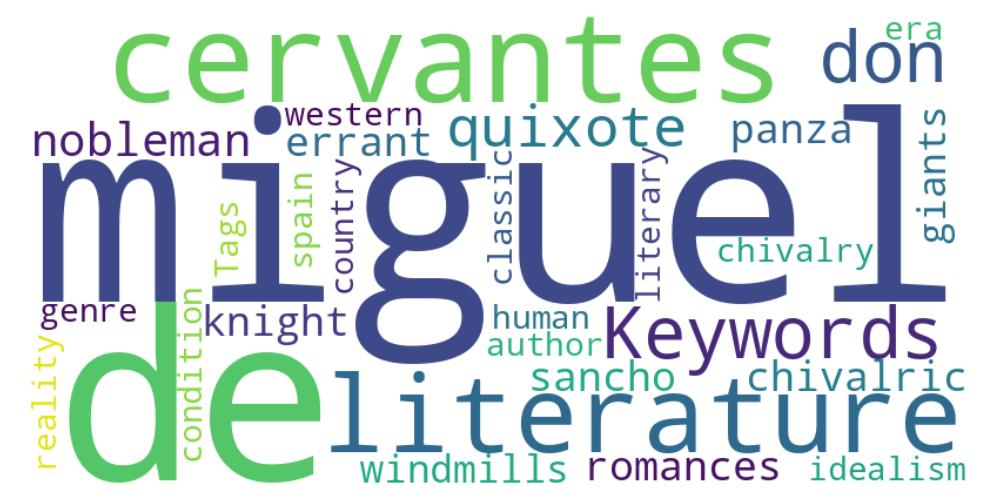
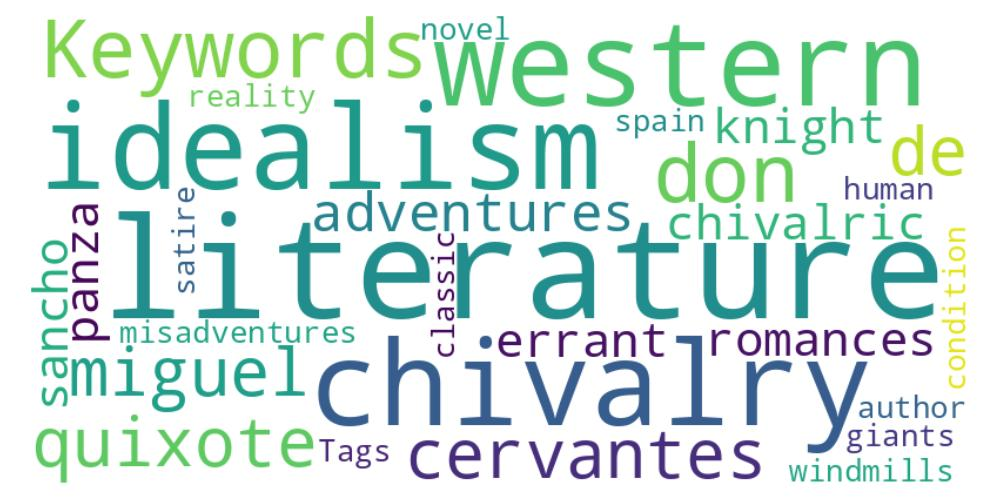
chore: commit save point

diff --git a/main.py b/main.py
@@ -190,37 +190,45 @@ def main():
 
     # Llamamos a la función para extraer palabras clave
     extracted_keywords = extract_keywords(input_text)
-    print("\nExtracted Keywords and Tags:")
-    print(extracted_keywords)  # Imprimimos los keywords y tags extraídos
+    print("\n🔑 **Extracted Keywords and Tags:**")
+    print("\n📌 **Keywords:**")
+    for keyword in extracted_keywords.split("keywords:")[-1].strip().split("\n- "):
+        if keyword:
+            print(f"   - {keyword}")
 
     # Extraemos los tags de los keywords
     tags = parse_tags_from_keywords(extracted_keywords)
+    print("\n🏷 **Tags:**")
+    for key, value in tags.items():
+        print(f"   - {key}: {value}")
 
     # Llamamos a la función para obtener libros relacionados
     related_books = extract_related_books(input_text)
-    print("\nRelated Books:")
-    print(related_books)  # Imprimimos los libros relacionados
+    print("\n📚 **Related Books:**")
+    for book in related_books.split("\n"):
+        if book:
+            print(f"   - {book}")
 
     # Generamos la nube de palabras
     output_path_cloud = "img/tag_cloud.jpg"
     os.makedirs(os.path.dirname(output_path_cloud), exist_ok=True)
     generate_tag_cloud(extracted_keywords, output_path_cloud)
-    print(f"\nTag cloud saved to {output_path_cloud}")
+    print(f"\n🌥 **Tag cloud saved to:** {output_path_cloud}")
 
     # Generamos la gráfica de barras
     output_path_bar = "img/keyword_bar_chart.jpg"
     generate_bar_chart(extracted_keywords, output_path_bar)
-    print(f"\nBar chart saved to {output_path_bar}")
+    print(f"\n📊 **Bar chart saved to:** {output_path_bar}")
 
     # Generamos la gráfica de pastel con los tags extraídos
     output_path_pie = "img/tag_pie_chart.jpg"
     generate_pie_chart(tags, output_path_pie)
-    print(f"\nPie chart saved to {output_path_pie}")
+    print(f"\n🥧 **Pie chart saved to:** {output_path_pie}")
 
     # Generamos scatter plot
     output_path_scatter = "img/keyword_scatter_plot.jpg"
     generate_scatter_plot(extracted_keywords, output_path_scatter)
-    print(f"\nScatter plot saved to {output_path_scatter}")
+    print(f"\n📈 **Scatter plot saved to:** {output_path_scatter}")
 
 if __name__ == "__main__":
     main()

diff --git a/README.md b/README.md
@@ -2,6 +2,48 @@
 
 Welcome to the **Keyword Extraction Project**, where we use the power of OpenAI's ChatCompletion API to extract keywords from any given text. This repository contains a simple Python script that demonstrates how to interact with the API and retrieve keywords efficiently.
 
+## 🖥 Example Output
+
+When running the script, you will see the following output in the terminal:
+
+```plaintext
+🔑 **Extracted Keywords and Tags:**
+
+📌 **Keywords:**
+   - don-quixote
+   - miguel-de-cervantes
+   - literature
+   - nobleman
+   - chivalric-romances
+   - knight-errant
+   - sancho-panza
+   - windmills
+   - giants
+   - chivalry
+   - idealism
+   - reality
+   - human-condition
+   - western-literature
+
+🏷 **Tags:**
+   - author: miguel-de-cervantes
+   - era: 1605
+   - literary-genre: classic
+   - country: spain
+
+📚 **Related Books:**
+   - "The Canterbury Tales" - Geoffrey Chaucer
+   - "Gulliver's Travels" - Jonathan Swift
+   - "Pilgrim's Progress" - John Bunyan
+   - "Robinson Crusoe" - Daniel Defoe
+   - "Moby-Dick" - Herman Melville
+
+🌥 **Tag cloud saved to:** [tag_cloud.jpg](http://_vscodecontentref_/3)
+📊 **Bar chart saved to:** [keyword_bar_chart.jpg](http://_vscodecontentref_/4)
+🥧 **Pie chart saved to:** [tag_pie_chart.jpg](http://_vscodecontentref_/5)
+📈 **Scatter plot saved to:** [keyword_scatter_plot.jpg](http://_vscodecontentref_/6)
+```
+
 ## ✨ Features
 
 - **Keyword Extraction**: Provide a block of text, get back its main keywords.
